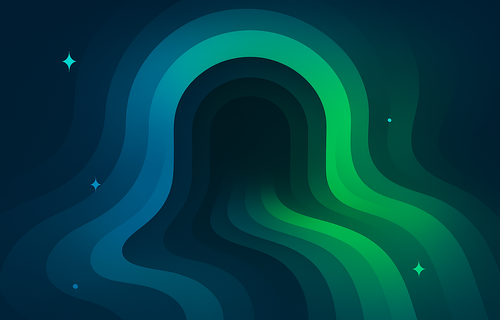
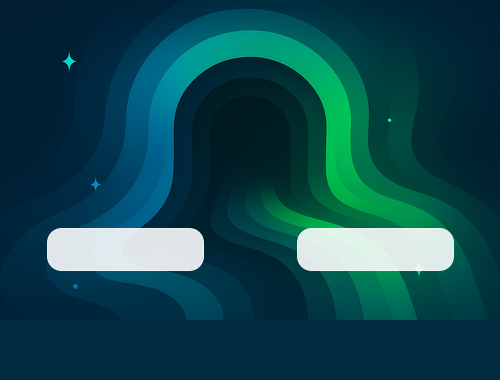
fix: improve macOS DMG layout (#661)

Pull request: fix: improve macOS DMG layout
Fixes #409.

## Summary

- increase the DMG Finder window and background height so icon labels remain visible
- add light label backplates because Finder does not expose icon-label color through AppleScript
- hide toolbar, status bar, and path bar without closing unrelated Finder windows
- validate the background dimensions before packaging
- bound Finder styling and the macOS release workflow so a stalled UI step cannot occupy a runner for hours

## Verification

- generated a complete read-only DMG from the release app payload
- verified the DMG checksum with `hdiutil verify`
- opened the final DMG in Finder and confirmed the exact 500x380 window, 128px app and Applications icons, readable labels, hidden Finder controls, and intact Applications drag target
- `bash -n mac/scripts/create-dmg.sh`
- workflow YAML parse
- full macOS app test suite
- web lint and typecheck
- production web/server build
- client test suite
- server test suite: 582 passed, 75 skipped
- structured autoreview: no actionable findings

diff --git a/CHANGELOG.md b/CHANGELOG.md
@@ -15,6 +15,7 @@
 - Default macOS build script to universal binaries with optional arch override (via [@rothnic](https://github.com/rothnic)) (#557)
 
 ### 🐛 Bug Fixes
+- Keep macOS DMG labels readable and fully visible across Finder toolbar settings (reported by [@MrMage](https://github.com/MrMage)) (#409)
 - Accept iOS hardware keyboard input without first opening the software keyboard (#491)
 - Keep iOS hardware Escape keys inside active terminal sessions (#492)
 - Keep the mobile terminal prompt visible when opening the software keyboard and quick keys (#544)